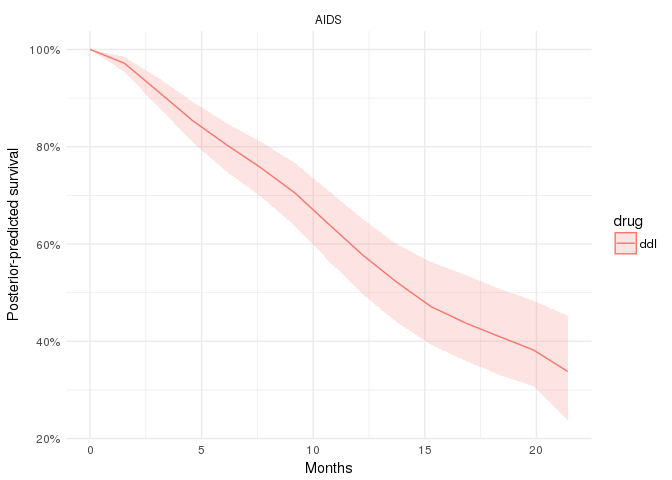
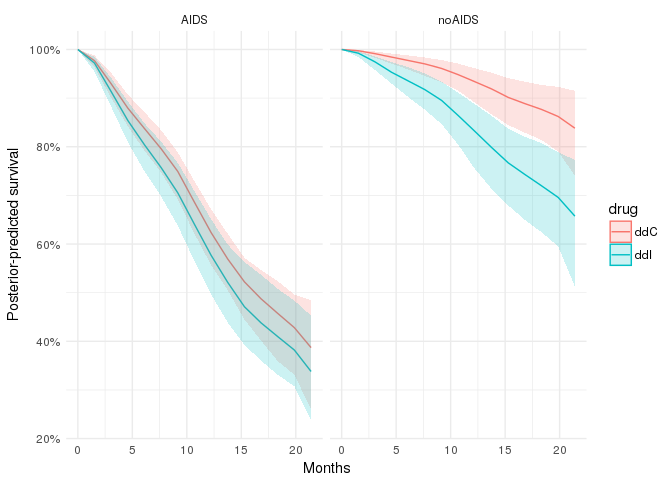
update figure

diff --git a/summarize_aids_fit.md b/summarize_aids_fit.md
@@ -570,9 +570,9 @@ Here we will consider only data known at baseline, then draw from the posterior 
 ``` r
 with_aids_ddI_ppsurv %>% 
          dplyr::mutate(drug = 'ddI', prevOI = 'AIDS') %>%
-         dplyr::bind_cols(with_aids_ddC_ppsurv %>% dplyr::mutate(drug = 'ddC', prevOI = 'AIDS')) %>%
-         dplyr::bind_cols(no_aids_ddI_ppsurv %>% dplyr::mutate(drug = 'ddI', prevOI = 'noAIDS')) %>%
-         dplyr::bind_cols(no_aids_ddC_ppsurv %>% dplyr::mutate(drug = 'ddC', prevOI = 'noAIDS')) %>%
+         dplyr::bind_rows(with_aids_ddC_ppsurv %>% dplyr::mutate(drug = 'ddC', prevOI = 'AIDS')) %>%
+         dplyr::bind_rows(no_aids_ddI_ppsurv %>% dplyr::mutate(drug = 'ddI', prevOI = 'noAIDS')) %>%
+         dplyr::bind_rows(no_aids_ddC_ppsurv %>% dplyr::mutate(drug = 'ddC', prevOI = 'noAIDS')) %>%
   ggplot(.,
        aes(x = obstime, y = survpred, group = drug, colour = drug)) +
   geom_line() +
